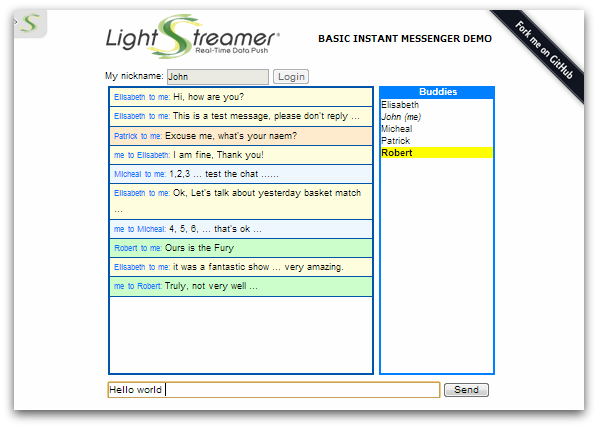
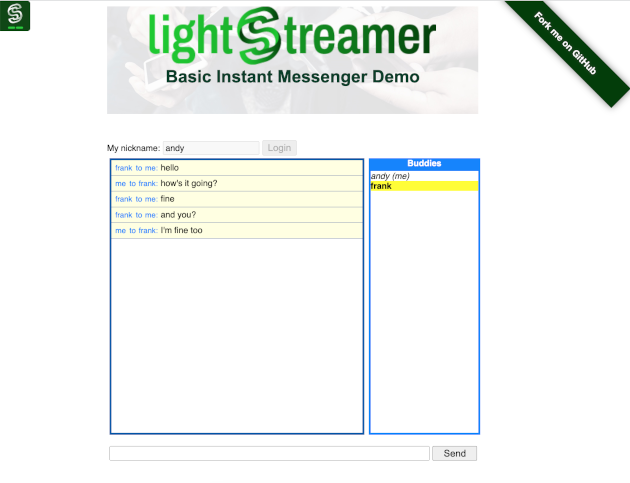
update graphics

diff --git a/src/css/im.css b/src/css/im.css
@@ -15,7 +15,32 @@
  * See the License for the specific language governing permissions and
  * limitations under the License.
  */
- .ribbon {
+ .banner {
+  height: 150px;
+  position: relative;
+  background-image: url("../images/banner.jpg");
+  background-size: cover;
+  background-position: bottom;
+}  
+.logo {
+  width: 400px;
+  position: absolute;
+  left: 50%;
+  transform: translateX(-50%);
+}  
+.banner p {
+  width: 100%;
+  position: absolute;
+  left: 0;
+  top: 60px;
+  font-family: "Amazon Ember", Arial, Helvetica, Sans-serif;
+  font-size: x-large;
+  color: #063d27;
+  font-weight: bold;
+  text-align: center;
+}
+.ribbon {
+  z-index: 1;
   background-color: #003D06;
   overflow: hidden;
   white-space: nowrap;
@@ -41,6 +66,7 @@
   text-decoration: none;
   text-shadow: 0 0 5px #444;
 }
+
 .demoTitle {
   font-family: Verdana, Arial, Helvetica, Sans-serif;
   font-size: 9pt;

diff --git a/src/index.html b/src/index.html
@@ -32,13 +32,14 @@
     <a href="https://github.com/Lightstreamer/Lightstreamer-example-Messenger-client-javascript">Fork me on GitHub</a>
   </div>
   <div id="wrap">
-    <table width="518" border="0">  
-      <tr>
-        <td><a href="http://www.lightstreamer.com" target="_blank">
-          <img src="images/logo.png" alt="LIGHTSTREAMER" hspace="0" border="0" /></a></td>
-        <td class="demoTitle">BASIC INSTANT MESSENGER DEMO</td>
-      </tr>
-    </table>
+    <div class="banner">
+      <a href="https://www.lightstreamer.com">
+        <img src="images/logo.png" alt="Logo" class="logo">
+      </a>
+      <p>
+        Basic Instant Messenger Demo
+      </p>
+    </div>
 
     <br />
     <br />
